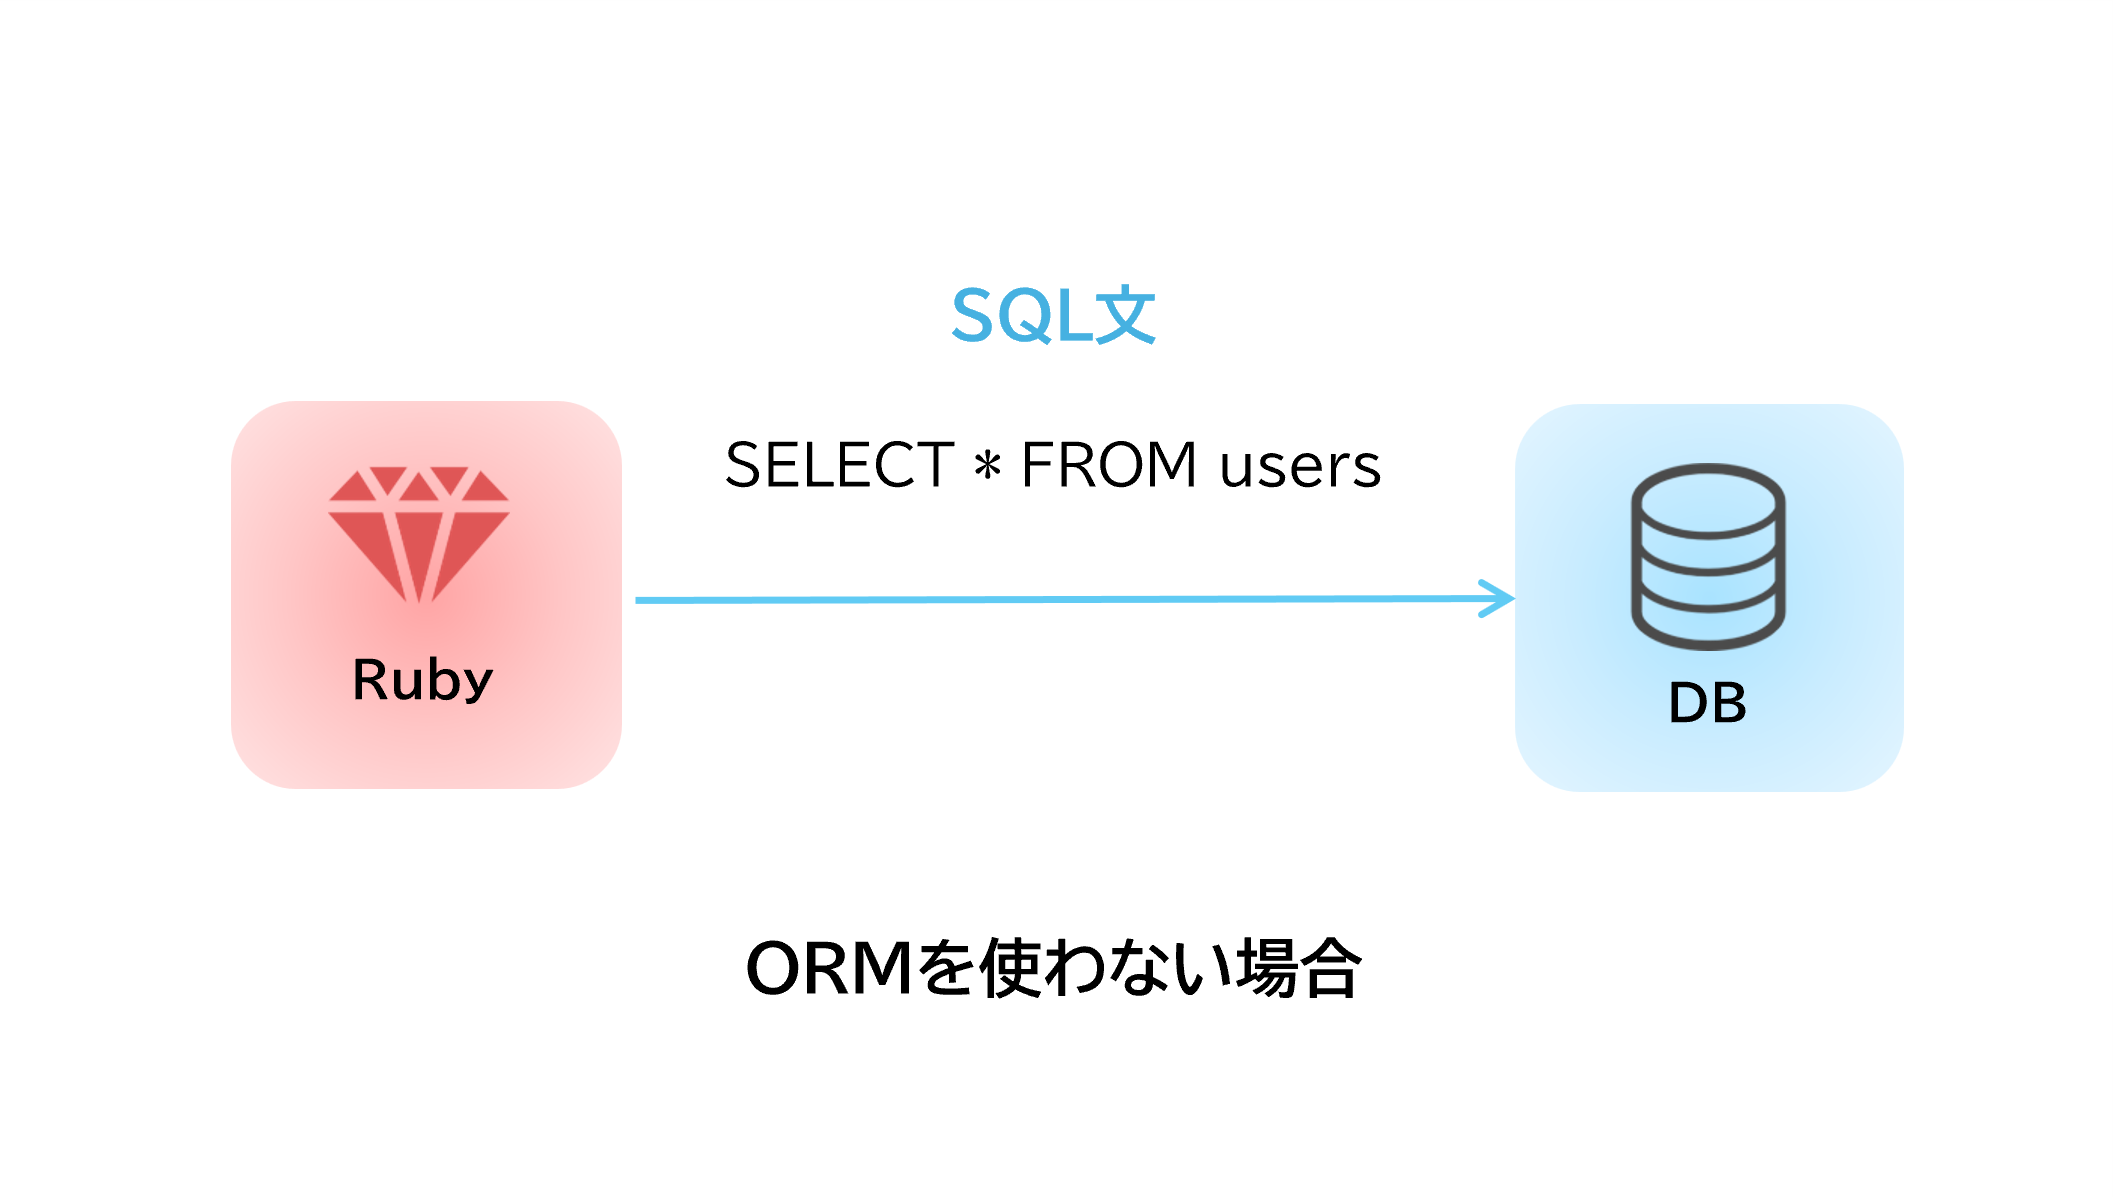
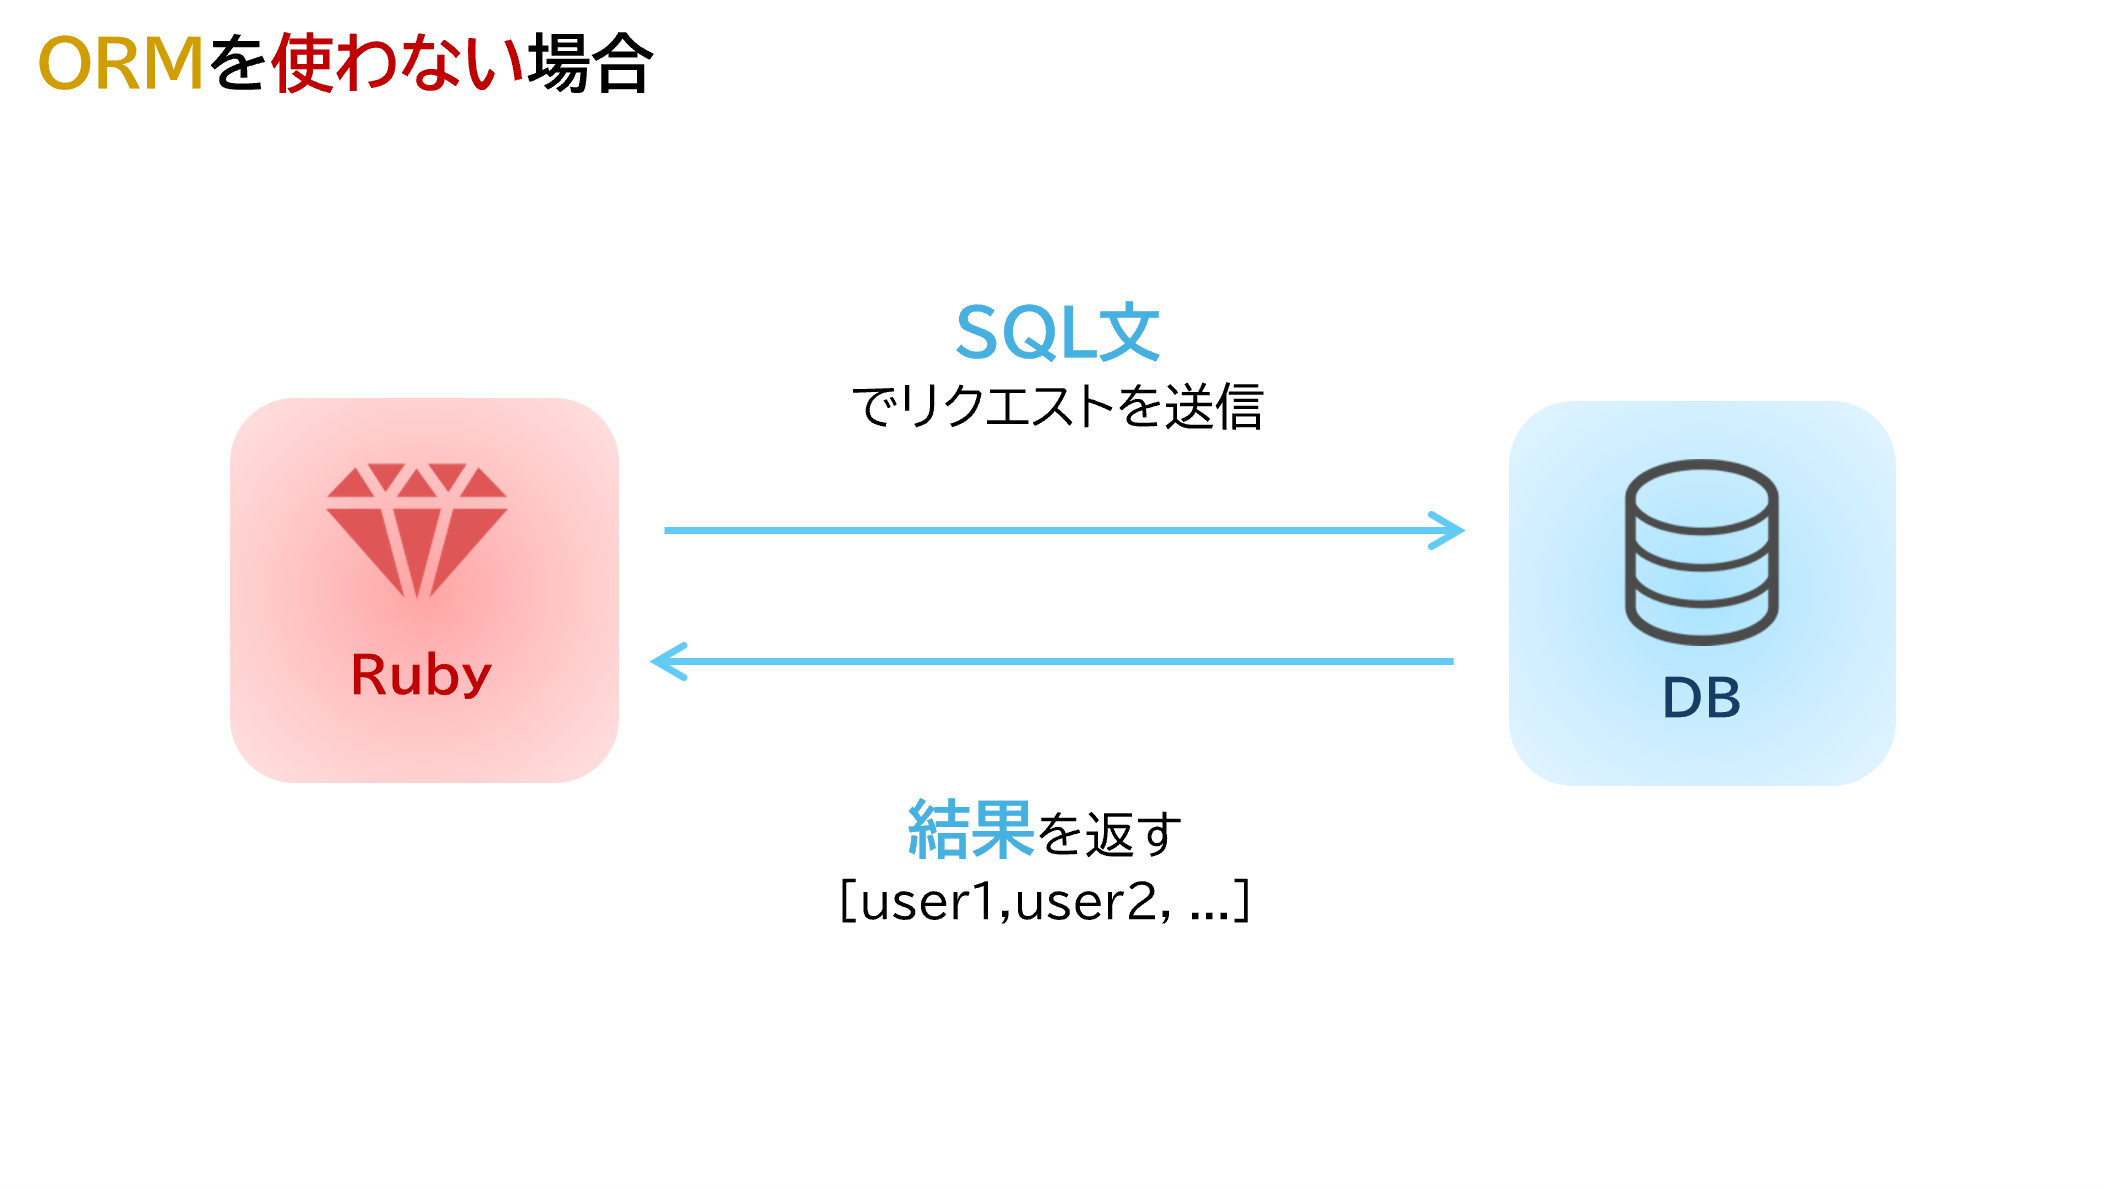
DB基礎画像追加及び説明文修正

diff --git a/first_part/06-2_RoR_DB基礎2.md b/first_part/06-2_RoR_DB基礎2.md
@@ -1,4 +1,4 @@
-# 6.1 Ruby on Rails：データベース基礎
+# 6 Ruby on Rails：データベース基礎
 
 ## 目次
 

diff --git a/first_part/06-3_RoR_DB基礎3.md b/first_part/06-3_RoR_DB基礎3.md
@@ -1,4 +1,4 @@
-# 6.1 Ruby on Rails：データベース基礎
+# 6 Ruby on Rails：データベース基礎
 
 ## 目次
 
